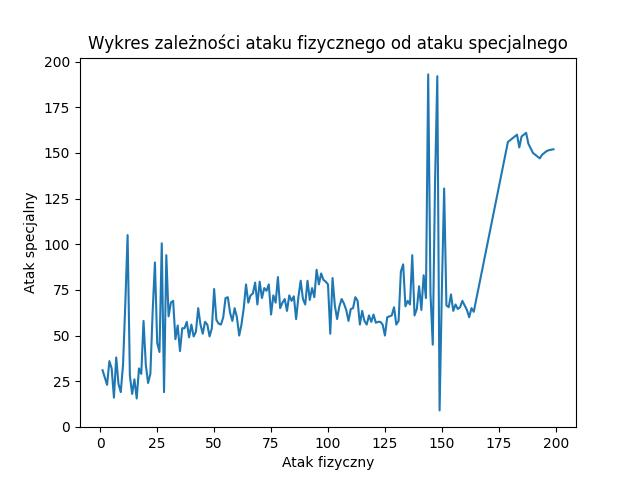
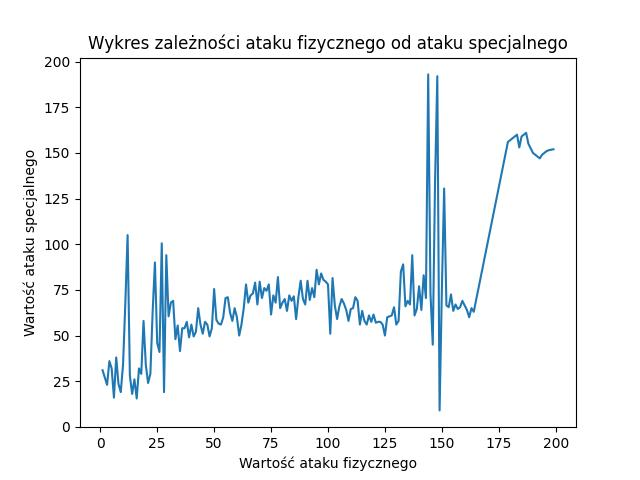
cz1 poprawki

Changed region(s): [[0.375, 0.9375, 0.6562, 1.0], [0.0312, 0.3125, 0.0625, 0.7188]]

diff --git a/cz1/wizualizacja.py b/cz1/wizualizacja.py
@@ -21,8 +21,8 @@ for stat in stats:
 
 #wykres zależności ataku i specjalnego ataku od obrony
 dane_wykres = dane.sort_values(by=["Defense"])[["Attack","Defense","Sp. Atk"]].groupby(dane["Defense"]).median()
-plt.plot(dane_wykres["Defense"],dane_wykres["Sp. Atk"])
-plt.plot(dane_wykres["Defense"],dane_wykres["Attack"])
+plt.plot(dane_wykres.index,dane_wykres["Sp. Atk"])
+plt.plot(dane_wykres.index,dane_wykres["Attack"])
 plt.xlabel("Wartość obrony")
 plt.ylabel("Wartość ataku")
 plt.legend(['atak fizyczny', 'atak specjalny'])
@@ -30,13 +30,49 @@ plt.title("Wykres zależności ataku od fizycznej obrony")
 plt.savefig("./wykresy/atk_od_obrony.jpg")
 plt.clf()
 
+#wykres zależności ataku i specjalnego ataku od obrony z podziałem osi x na mniejsze części
+dane_wykres = dane.sort_values(by=["Defense"])[["Attack","Defense","Sp. Atk"]]
+slices = []
+for i in range(100):
+	procent = dane_wykres.iloc[0 + int((0.01*i)*len(dane_wykres)):int((0.01*(i+1))*len(dane_wykres))-1]
+	p = procent.copy()
+	p["Defense"] = round(p["Defense"].mean())
+	slices.append(p)
+dane_wykres = pd.concat(slices)
+dane_wykres = dane_wykres.groupby(dane_wykres["Defense"]).mean()
+plt.plot(dane_wykres.index,dane_wykres["Sp. Atk"])
+plt.plot(dane_wykres.index,dane_wykres["Attack"])
+plt.xlabel("Wartość obrony")
+plt.ylabel("Wartość ataku")
+plt.legend(["atak fizyczny", "atak specjalny"])
+plt.title("Wykres zależności ataku od fizycznej obrony z krokiem 1%")
+plt.savefig("./wykresy/atk_od_obrony_ladniejszy.jpg")
+plt.clf()
+
 #wykres zależności specjalnego ataku od fizycznego ataku
 dane_wykres = dane.sort_values(by=["Attack"])[["Sp. Atk","Attack"]].groupby(dane["Attack"]).median()
 plt.plot(dane_wykres["Attack"],dane_wykres["Sp. Atk"])
-plt.xlabel("Atak fizyczny")
-plt.ylabel("Atak specjalny")
+plt.xlabel("Wartość ataku fizycznego")
+plt.ylabel("Wartość ataku specjalnego")
 plt.title("Wykres zależności ataku fizycznego od ataku specjalnego")
 plt.savefig("./wykresy/atk_od_spatk.jpg")
+plt.clf()
+
+#wykres zależności ataku ataku fizycznego od specjalnego z podziałem osi x na mniejsze części
+dane_wykres = dane.sort_values(by=["Attack"])[["Sp. Atk", "Attack"]]
+slices = []
+for i in range(100):
+	procent = dane_wykres.iloc[0 + int((0.01*i)*len(dane_wykres)):int((0.01*(i+1))*len(dane_wykres))-1]
+	p = procent.copy()
+	p["Attack"] = round(p["Attack"].mean())
+	slices.append(p)
+dane_wykres = pd.concat(slices)
+dane_wykres = dane_wykres.groupby(dane_wykres["Attack"]).mean()
+plt.plot(dane_wykres.index,dane_wykres["Sp. Atk"])
+plt.xlabel("Wartość ataku fizycznego")
+plt.ylabel("Wartość ataku specjalnego")
+plt.title("Wykres zależności ataku fizycznego od ataku specjalnego z krokiem 1%")
+plt.savefig("./wykresy/atk_od_spatk_ladniejszy.jpg")
 plt.clf()
 
 colors = {"Fire" : "orangered", "Water" : "aqua", "Grass" : "green", "Normal" : "lightsalmon", "Electric" : "yellow", "Bug" : "lightgreen", "Fighting" : "red", "Ground" : "khaki", "Rock" : "goldenrod", "Steel" : "silver", "Poison" : "purple", "Psychic" : "palevioletred", "Ghost" : "rebeccapurple", "Dark" : "darkslategray", "Ice" : "cyan", "Dragon" : "dodgerblue", "Fairy" : "violet", "Flying" : "azure"}
@@ -75,15 +111,15 @@ pojedyncze_typy = dane[dane["Type 2"].isna()]
 n_podwojnych = len(podwojne_typy)
 n_pojedynczych = len(pojedyncze_typy)
 
-plt.bar(["Pojedyncze typy", "Podwójne typy"], [n_pojedynczych, n_podwojnych])
+plt.bar(["Pojedynczy typ", "Podwójny typ"], [n_pojedynczych, n_podwojnych])
 plt.title("Liczba Pokemon'ów o pojedynczym i podwójnym typie")
 plt.savefig("./wykresy/liczba_pkmn_o_liczbie_typow.jpg")
 plt.clf()
 
 #wykres TSNE dla statystyk bojowych przyjmując za etykiety typ główny
 tsne = TSNE(n_components=2,).fit_transform(dane[["HP", "Attack", "Defense", "Sp. Atk", "Sp. Def", "Speed"]])
-tsne_df = pd.DataFrame({'tsne_1': tsne[:,0], 'tsne_2': tsne[:,1]})
-tsne_df['type'] = dane[["Type 1"]]
+tsne_df = pd.DataFrame({"tsne_1": tsne[:,0], "tsne_2": tsne[:,1]})
+tsne_df["type"] = dane[["Type 1"]]
 types = tsne_df.type.unique()
 for typ in types:
 	color = colors[typ]
